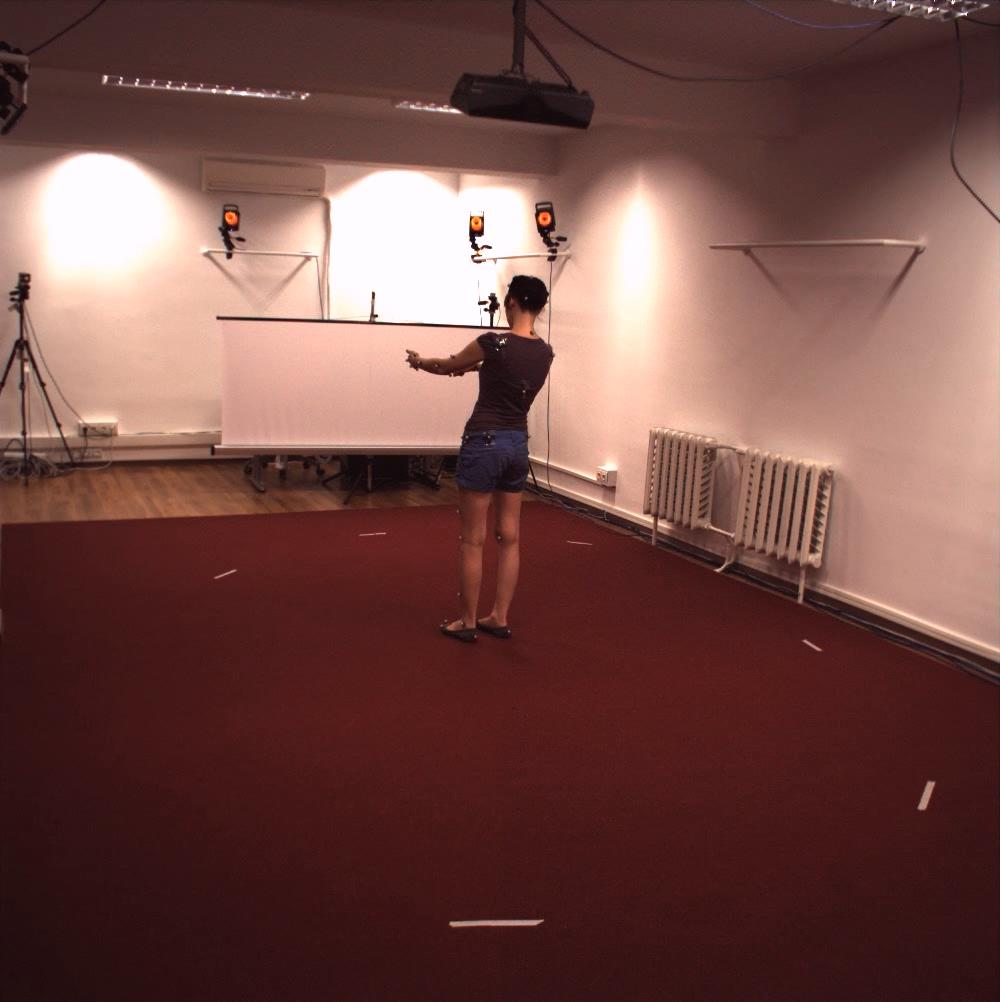
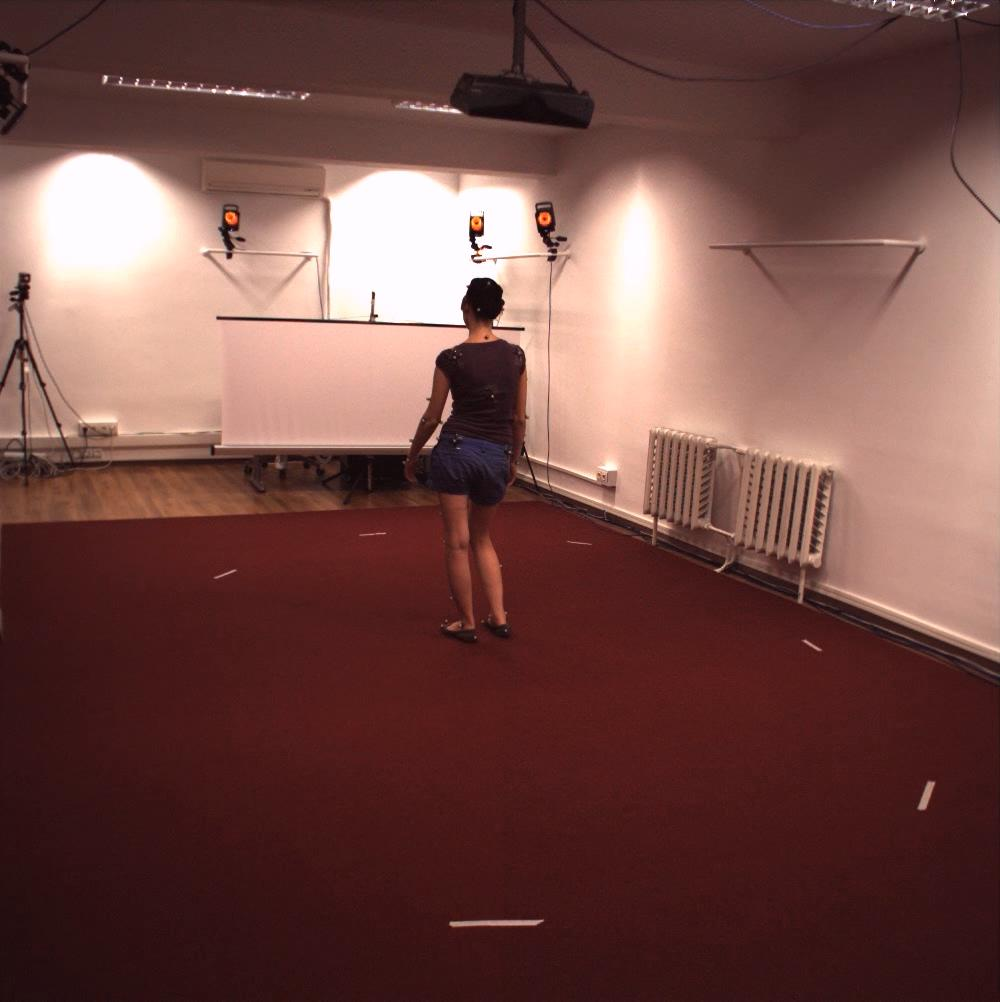
Added 4 new images, and hand annotated pickles (poses)

Changed region(s): [[0.403, 0.2784, 0.558, 0.6497]]

diff --git a/ransac_triangulation/2D_pose_estimation.py b/ransac_triangulation/2D_pose_estimation.py
@@ -9,8 +9,11 @@ import cv2
 import numpy as np
 import copy
 
+
+number = 2
+
 #Run inference
-img = Image.open("./3.jpg")
+img = Image.open("./" + str(number) + ".jpg")
 convert_tensor = transforms.ToTensor()
 my_image_tensor = convert_tensor(img)
 model = hg2(pretrained=True)
@@ -29,6 +32,9 @@ for joint in joint_names:
     x = joints[MPII_JOINT_NAMES.index(joint)][0].item()
     y = joints[MPII_JOINT_NAMES.index(joint)][1].item()
 
+
+
+
     pose_xy.append([x,y])
     draw = cv2.circle(np.array(draw), (int(x),int(y)) ,5, (0,0,255), 5)
 
@@ -36,118 +42,213 @@ for joint in joint_names:
 #x = joints[MPII_JOINT_NAMES.index('right_wrist')][0].item()
 #y = joints[MPII_JOINT_NAMES.index('right_wrist')][1].item()
 #draw = cv2.circle(np.array(img), (int(x),int(y)) ,5, (0,0,255), 5)
-cv2.imwrite('check3.jpg',draw)
+cv2.imwrite('check' + str(number) + '.jpg',draw)
 
 import pickle
-with open('pose3.pickle', 'wb') as handle:
+with open('pose' + str(number) +'.pickle', 'wb') as handle:
     pickle.dump(pose_xy, handle, protocol=pickle.HIGHEST_PROTOCOL)
 
 #print('Right elbow location: ', joints[MPII_JOINT_NAMES.index('right_elbow')])
 
-
     """
-    #2.jpg - human annotate
+   #Set 3 - 0.jpg - human annotate
     if (joint == 'right_ankle'):
-        x = 531
-        y = 558
+        x = 501
+        y = 615
     if (joint == 'right_knee'):
-        x = 524
-        y = 492
+        x = 484
+        y = 539
     if (joint == 'right_hip'):
-        x = 513
-        y = 416
+        x = 495
+        y = 463
     if (joint == 'left_hip'):
-        x = 567
-        y = 418
+        x = 452
+        y = 460
     if (joint == 'left_knee'):
-        x = 568
-        y = 485
+        x = 457
+        y = 541
     if (joint == 'left_ankle'):
-        x = 564
-        y = 567
+        x = 466
+        y = 625
     if (joint == 'pelvis'):
-        x = 541
-        y = 410
+        x = 478
+        y = 460
     if (joint == 'spine'):
-        x = 535
-        y = 313
+        x = 485
+        y = 349
     if (joint == 'neck'):
-        x = 537
-        y = 289
+        x = 481
+        y = 328
     if (joint == 'head_top'):
-        x = 532
-        y = 242
+        x = 486
+        y = 276
     if (joint == 'right_wrist'):
-        x = 489
-        y = 434
+        x = 514
+        y = 461
     if (joint == 'right_elbow'):
-        x = 497
-        y = 372 
+        x = 523
+        y = 418 
     if (joint == 'right_shoulder'):
-        x = 500
+        x = 517
+        y = 350
+    if (joint == 'left_shoulder'):
+        x = 442
+        y = 357 
+    if (joint == 'left_elbow'):
+        x = 434
+        y = 413 
+    if (joint == 'left_wrist'):
+        x = 410
+        y = 460 
+
+    Set 3 - 1.jpg
+    if (joint == 'right_ankle'):
+        x = 522
+        y = 563
+    if (joint == 'right_knee'):
+        x = 522
+        y = 500
+    if (joint == 'right_hip'):
+        x = 529
+        y = 420
+    if (joint == 'left_hip'):
+        x = 576
+        y = 422
+    if (joint == 'left_knee'):
+        x = 573
+        y = 486
+    if (joint == 'left_ankle'):
+        x = 559
+        y = 564
+    if (joint == 'pelvis'):
+        x = 553
+        y = 423
+    if (joint == 'spine'):
+        x = 554
+        y = 312
+    if (joint == 'neck'):
+        x = 552
+        y = 298
+    if (joint == 'head_top'):
+        x = 548
+        y = 244
+    if (joint == 'right_wrist'):
+        x = 498
+        y = 422
+    if (joint == 'right_elbow'):
+        x = 513
+        y = 373 
+    if (joint == 'right_shoulder'):
+        x = 520
         y = 316 
     if (joint == 'left_shoulder'):
-        x = 567
-        y = 318 
+        x = 584
+        y = 316 
     if (joint == 'left_elbow'):
-        x = 583
-        y = 374 
+        x = 591
+        y = 378 
     if (joint == 'left_wrist'):
-        x = 588
-        y = 432 
+        x = 586
+        y = 426 
+
     
-    
-    #4.jpg - human annotate
+   #Set 3 - 2.jpg - human annotate
     if (joint == 'right_ankle'):
-        x = 460
-        y = 565
+        x = 650
+        y = 549
     if (joint == 'right_knee'):
-        x = 465
-        y = 476
+        x = 650
+        y = 468
     if (joint == 'right_hip'):
-        x = 472
-        y = 374
+        x = 644
+        y = 396
     if (joint == 'left_hip'):
-        x = 532
-        y = 382
+        x = 589
+        y = 390
     if (joint == 'left_knee'):
-        x = 512
-        y = 474
+        x = 600
+        y = 465
     if (joint == 'left_ankle'):
-        x = 504
-        y = 569
+        x = 612
+        y = 551
     if (joint == 'pelvis'):
-        x = 497
+        x = 611
+        y = 391
+    if (joint == 'spine'):
+        x = 609
+        y = 279
+    if (joint == 'neck'):
+        x = 612
+        y = 258
+    if (joint == 'head_top'):
+        x = 613
+        y = 209
+    if (joint == 'right_wrist'):
+        x = 676
+        y = 395
+    if (joint == 'right_elbow'):
+        x = 661
+        y = 349 
+    if (joint == 'right_shoulder'):
+        x = 651
+        y = 282
+    if (joint == 'left_shoulder'):
+        x = 578
+        y = 287 
+    if (joint == 'left_elbow'):
+        x = 578
+        y = 349 
+    if (joint == 'left_wrist'):
+        x = 593
+        y = 388
+    
+    #Set 3 - 3.jpg - human annotate
+    if (joint == 'right_ankle'):
+        x = 455
+        y = 569
+    if (joint == 'right_knee'):
+        x = 489
+        y = 491
+    if (joint == 'right_hip'):
+        x = 470
         y = 380
+    if (joint == 'left_hip'):
+        x = 536
+        y = 379
+    if (joint == 'left_knee'):
+        x = 521
+        y = 471
+    if (joint == 'left_ankle'):
+        x = 492
+        y = 566
+    if (joint == 'pelvis'):
+        x = 507
+        y = 382
     if (joint == 'spine'):
         x = 505
-        y = 249
+        y = 238
     if (joint == 'neck'):
-        x = 499
-        y = 219
+        x = 506
+        y = 220
     if (joint == 'head_top'):
-        x = 500
-        y = 143
+        x = 507
+        y = 151
     if (joint == 'right_wrist'):
-        x = 435
-        y = 388
-    if (joint == 'right_elbow'):
-        x = 440
-        y = 320
-    if (joint == 'right_shoulder'):
         x = 450
-        y = 250
+        y = 393
+    if (joint == 'right_elbow'):
+        x = 447
+        y = 325 
+    if (joint == 'right_shoulder'):
+        x = 455
+        y = 241 
     if (joint == 'left_shoulder'):
-        x = 543
-        y = 247 
+        x = 547
+        y = 250 
     if (joint == 'left_elbow'):
-        x = 550
-        y = 317 
+        x = 555
+        y = 320 
     if (joint == 'left_wrist'):
-        x = 567
-        y = 380 
+        x = 581
+        y = 387 
     """
-
-    # if (joint == 'left_wrist'):
-    #     x = 587
-    #     y = 434 

diff --git a/ransac_triangulation/ransac_triangulation.py b/ransac_triangulation/ransac_triangulation.py
@@ -84,6 +84,9 @@ def readAndGenerateCameraMatrice(camera_json_path):
 
         M = K @ Rt
         camera_matrices.append(M)
+
+    idx=[3,2,0,1]
+    camera_matrices=[camera_matrices[i]for i in idx]
     return camera_matrices
 
 
@@ -204,8 +207,8 @@ def ransac_triangulaton(poses_2d, camera_matrices, threshold=20):
         cur_allCam_erros = 0
 
         #Triangulate the points
-        cur_joints_3Dpts, vis = iterative_LS_triangulation(pose1, M1, pose2, M2)
-        #cur_joints_3Dpts = triangulate_cv2(pose1, M1, pose2, M2)
+        #cur_joints_3Dpts, vis = iterative_LS_triangulation(pose1, M1, pose2, M2)
+        cur_joints_3Dpts = triangulate_cv2(pose1, M1, pose2, M2)
 
         if debug:
             fig = plt.figure(figsize=(12, 7))
@@ -241,6 +244,14 @@ def ransac_triangulaton(poses_2d, camera_matrices, threshold=20):
                     y = projected_2Dpt[1]
                     img = cv2.circle(np.array(img), (int(x),int(y)) ,5, (0,0,255), 5)
 
+                #Special debug
+                #if combination[0] == 1 and combination[1] == 3 and cam_idx == 1:
+                #    x = projected_2Dpt[0]
+                #    y = projected_2Dpt[1]
+                #    print("x: %d y: %d", x,y)
+                #    import pdb; pdb.set_trace()
+                    
+
             #Accumulate the error for all the cameras (in this case: 4 cameras)
             cur_allCam_erros += cur_cam_error
 
@@ -259,7 +270,7 @@ def ransac_triangulaton(poses_2d, camera_matrices, threshold=20):
             best_joint_inliers = cur_joint_inliers
             best_combination = combination
 
-    #import pdb; pdb.set_trace()
+    import pdb; pdb.set_trace()
     return best_joints_3Dpts
 
 
@@ -317,10 +328,11 @@ if __name__ == '__main__':
     #P = triangulate_cv2(poses[0], camera_matrices[0], poses[2], camera_matrices[2])
 
     ransac_triangulaton(poses, camera_matrices) 
-    with open('P.pickle', 'wb') as handle:
-        pickle.dump(P, handle)
 
-    fig = plt.figure(figsize=(12, 7))
-    ax = fig.add_subplot(projection='3d')
-    show3Dpose(P, ax, radius=128)
-    plt.savefig('triangulate.png')
+    #with open('P.pickle', 'wb') as handle:
+    #    pickle.dump(P, handle)
+
+    #fig = plt.figure(figsize=(12, 7))
+    #ax = fig.add_subplot(projection='3d')
+    #show3Dpose(P, ax, radius=128)
+    #plt.savefig('triangulate.png')
